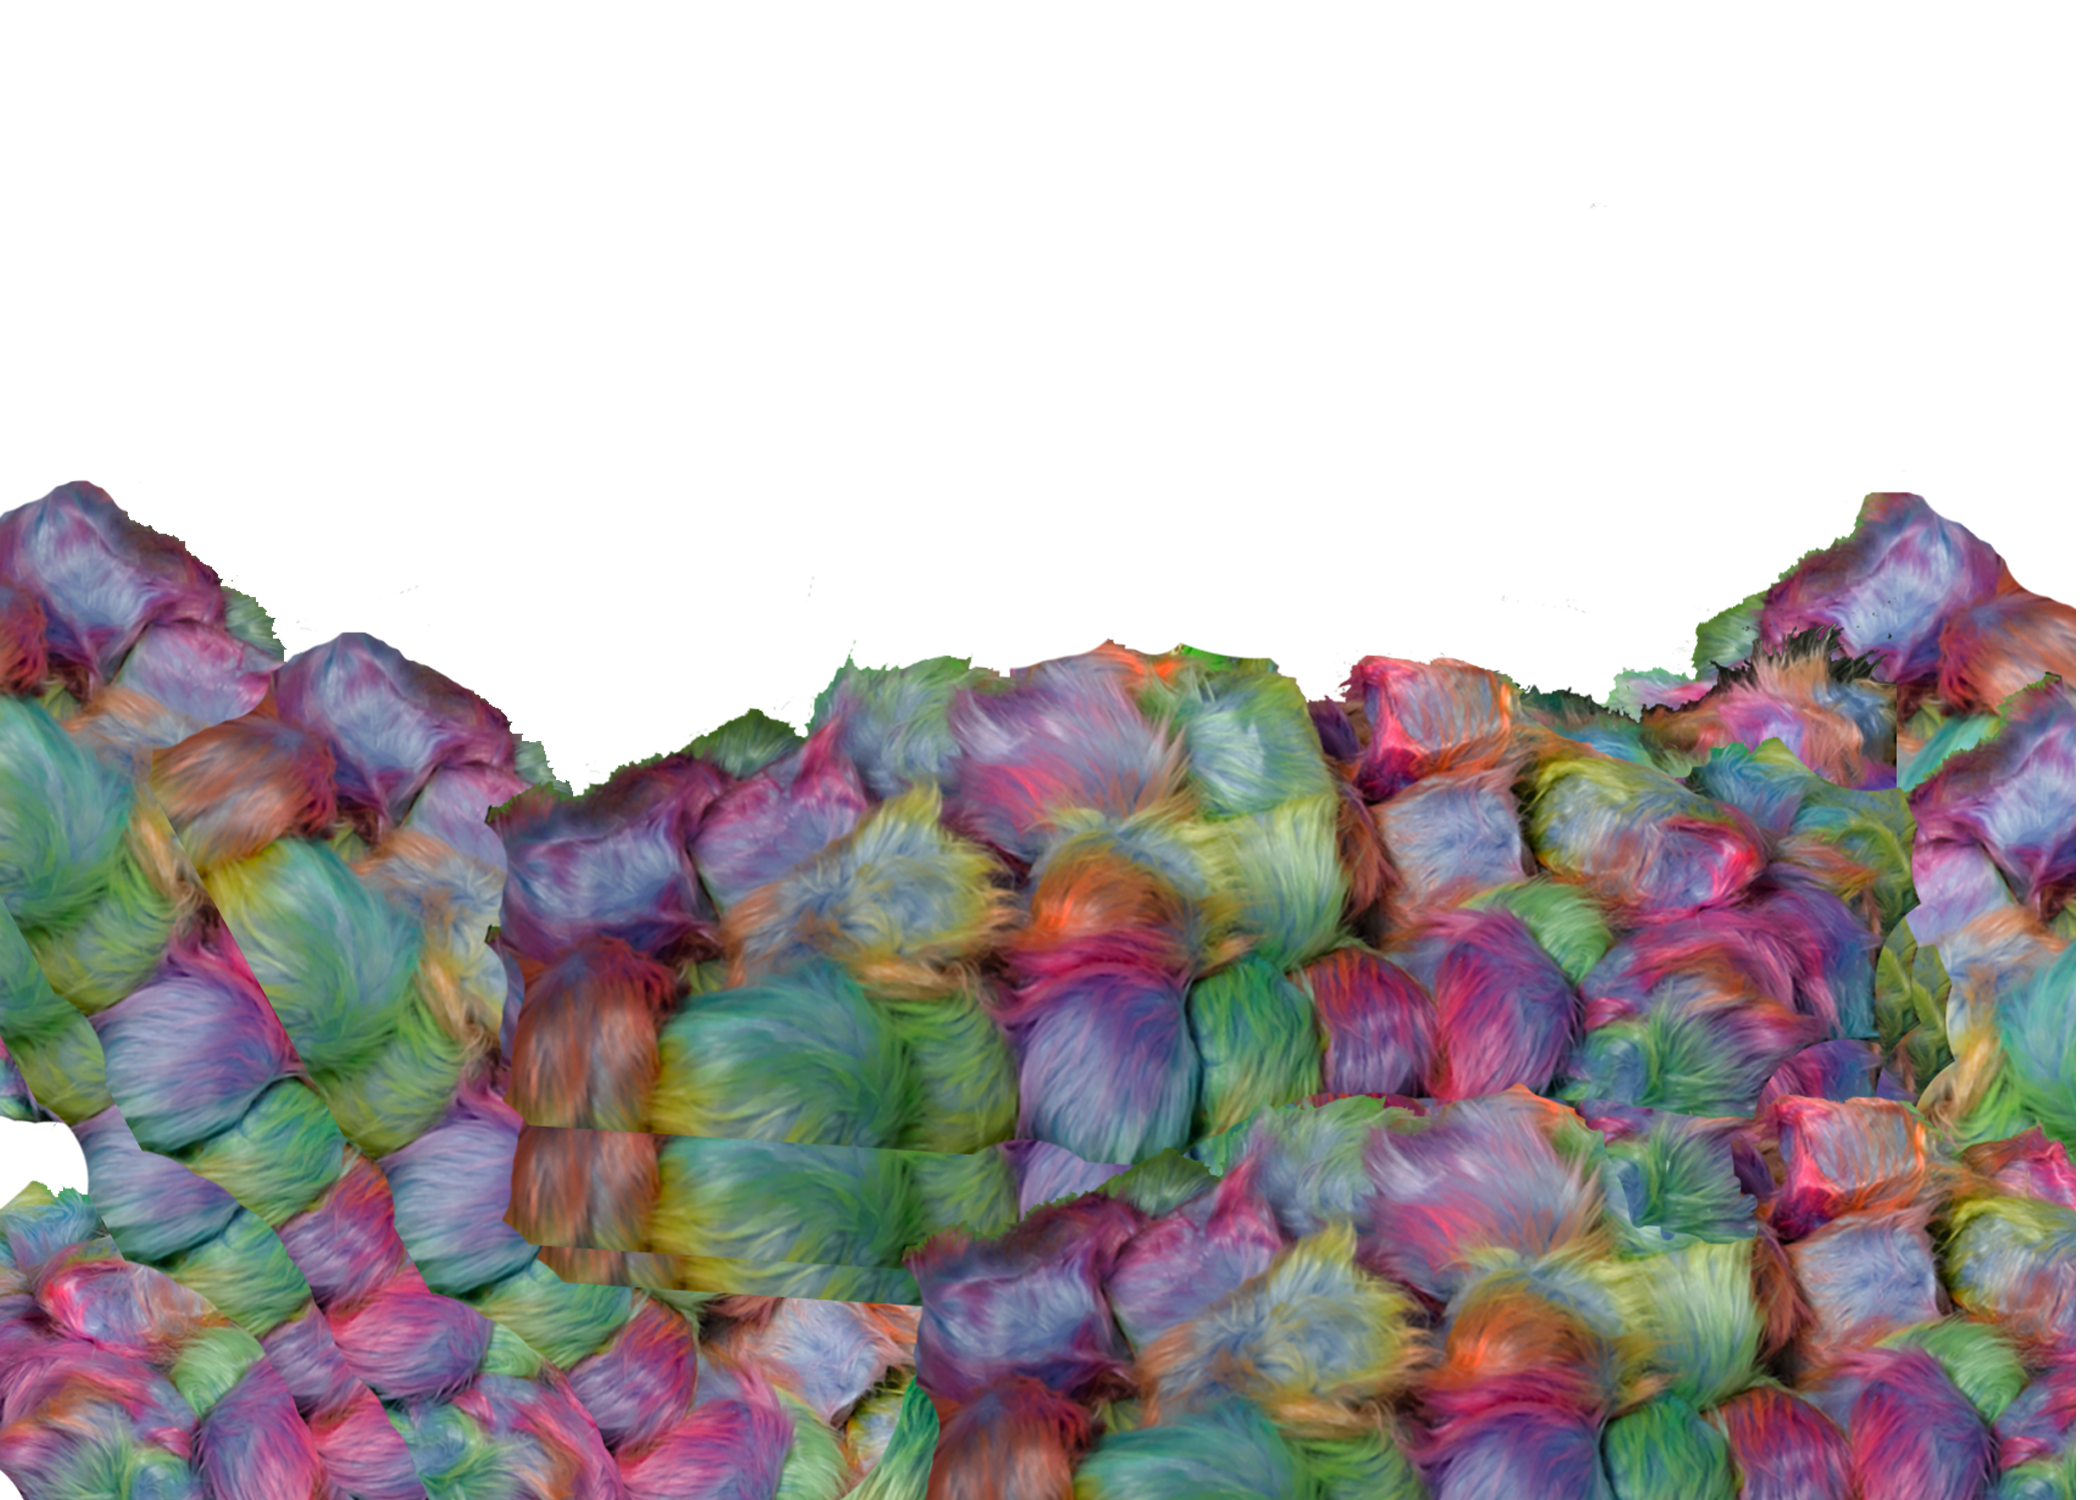
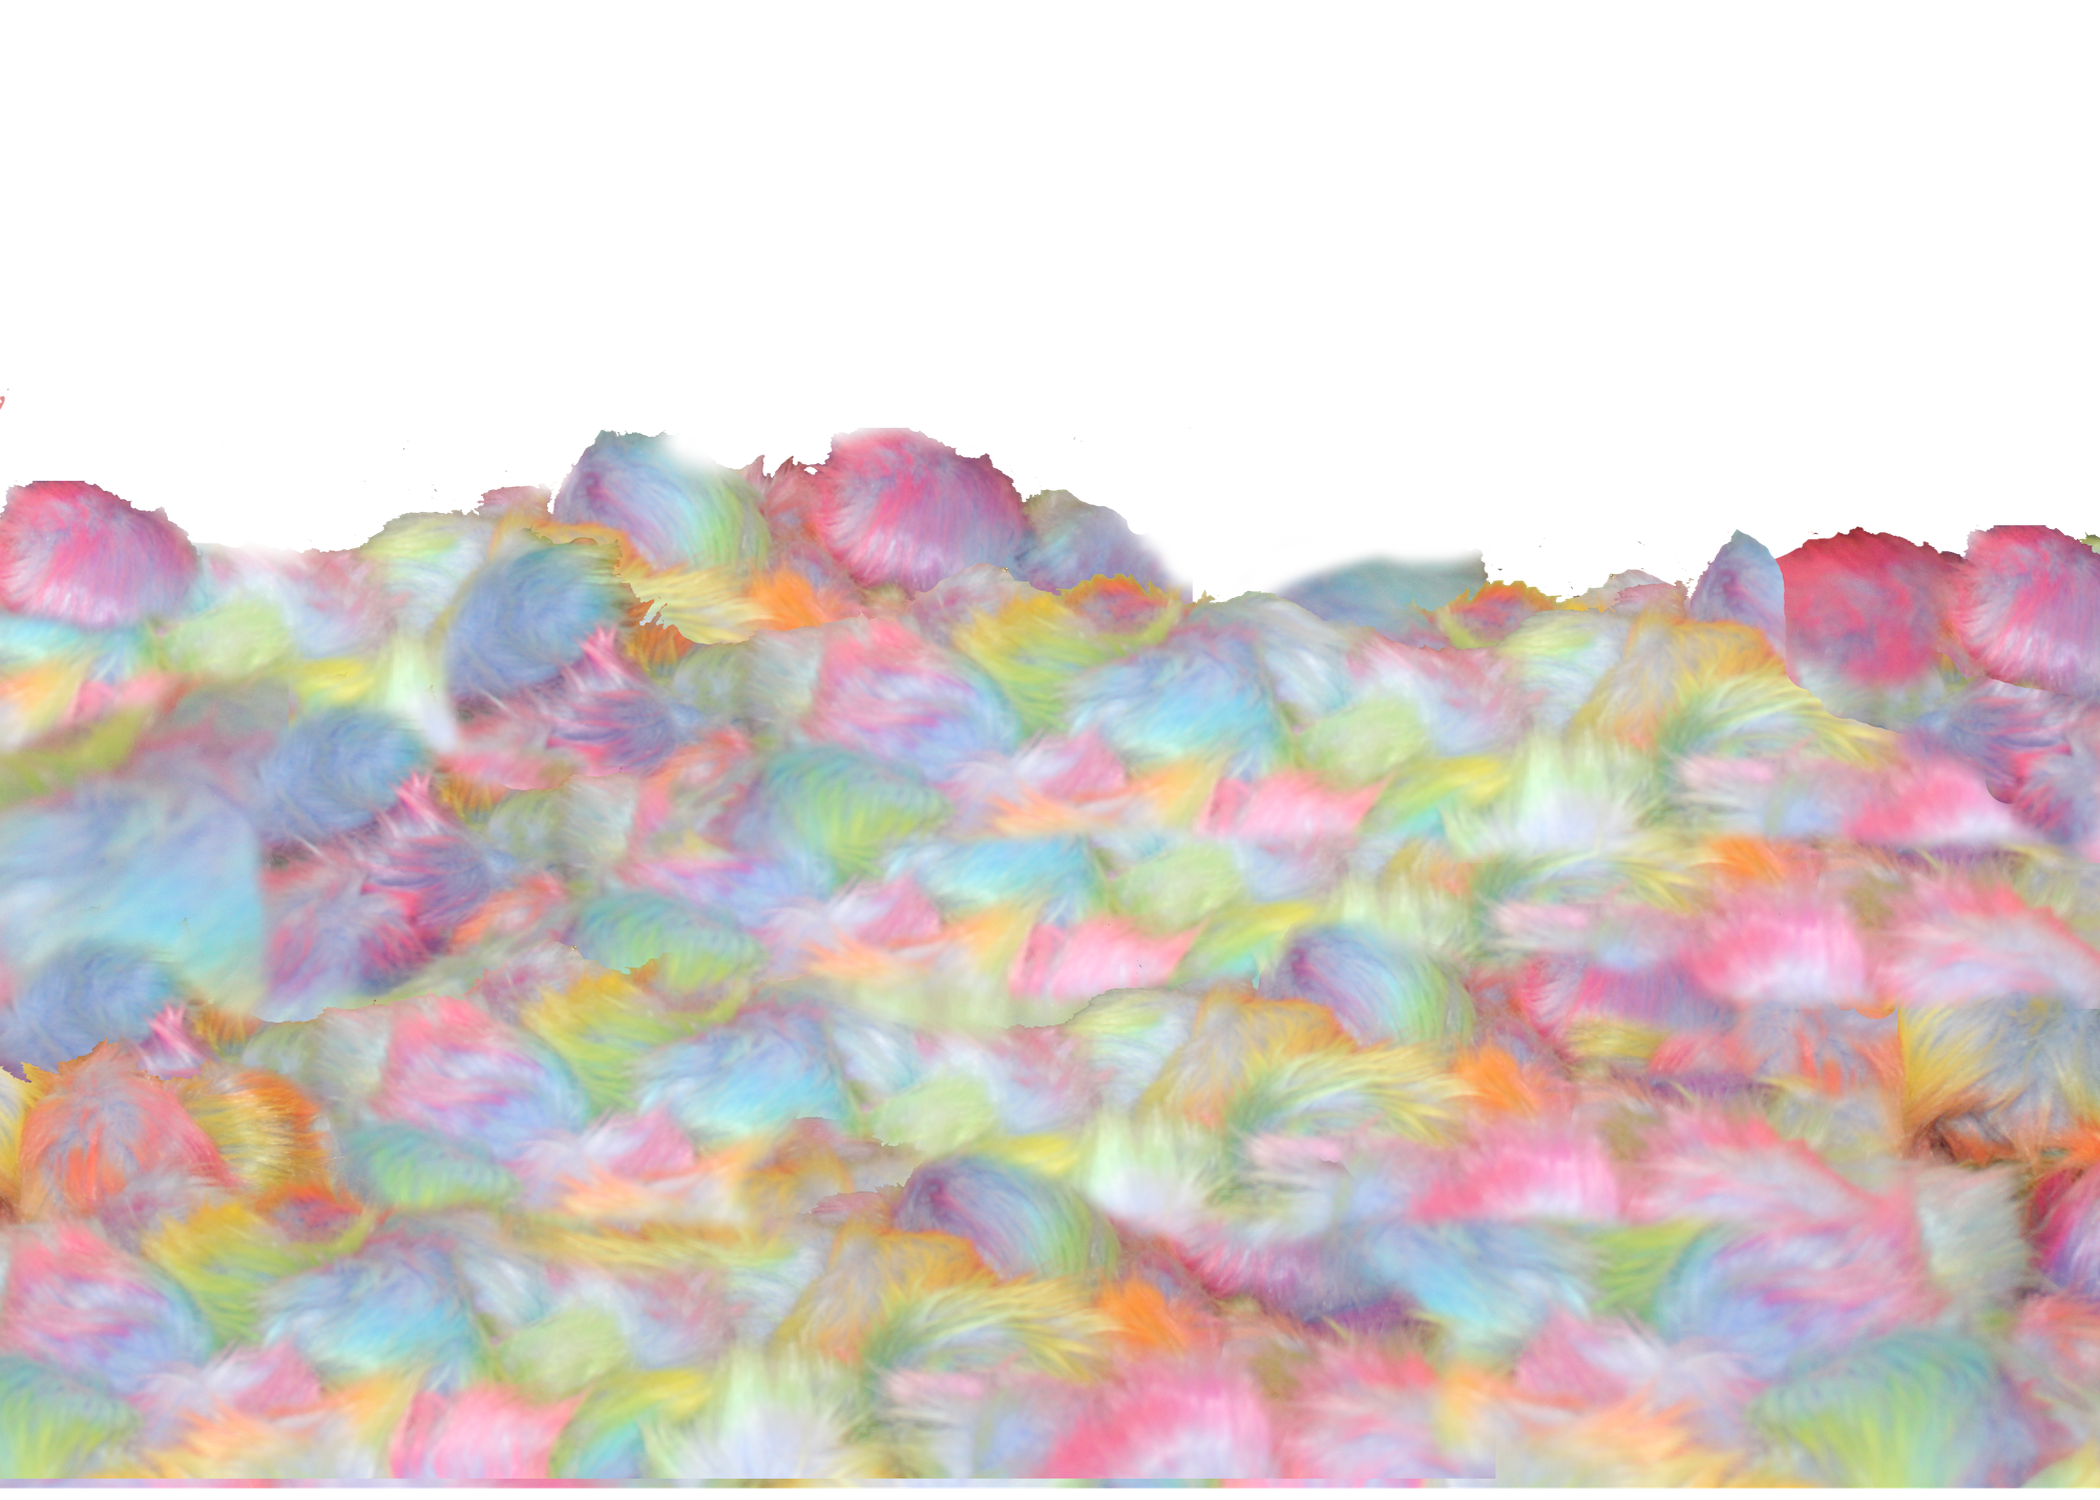
update merged layers

diff --git a/tribble/batch_process.py b/tribble/batch_process.py
@@ -31,14 +31,14 @@ def main(argv=None):
             command = "python {0}/resize_img.py converted_{1}.png --output resized_{1}.png".format(BASE_DIR, outfile)
             subprocess.call([ a for a in command.split(' ') if a]) 
 
-            command = "python {0}/merge_layers.py {0}/WALL.png "\
+            command = "python {0}/merge_layers.py " \
+                      "{0}/WALL.png "\
                       "{0}/BACK_TRIBBLES.png " \
                       "resized_{1}.png " \
-                      "{0}/FRONT_TRIBBLES.png " \
                       "{0}/LOGO.png " \
-                      "{0}/DATE.png " \
+                      "{0}/PHRASE.png " \
                       "{0}/BORDER.png " \
-                      "--output merged_{1}.png".format(BASE_DIR,outfile)
+                      "--output tribified_{1}.png".format(BASE_DIR,outfile)
             subprocess.call([ a for a in command.split(' ') if a]) 
 
     return None
